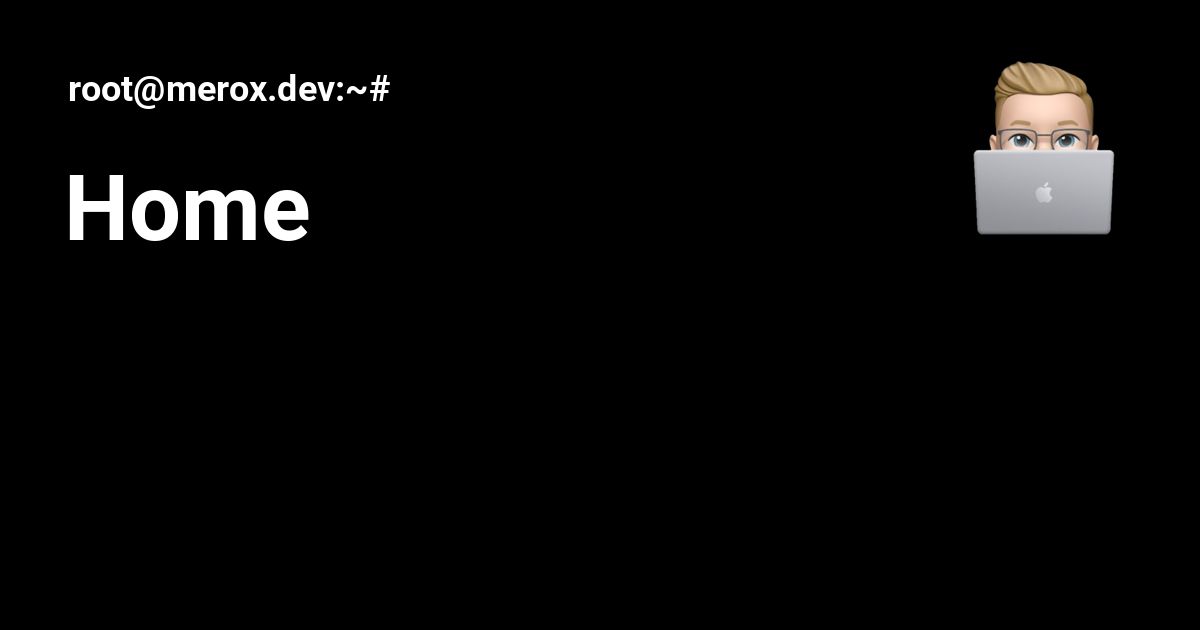
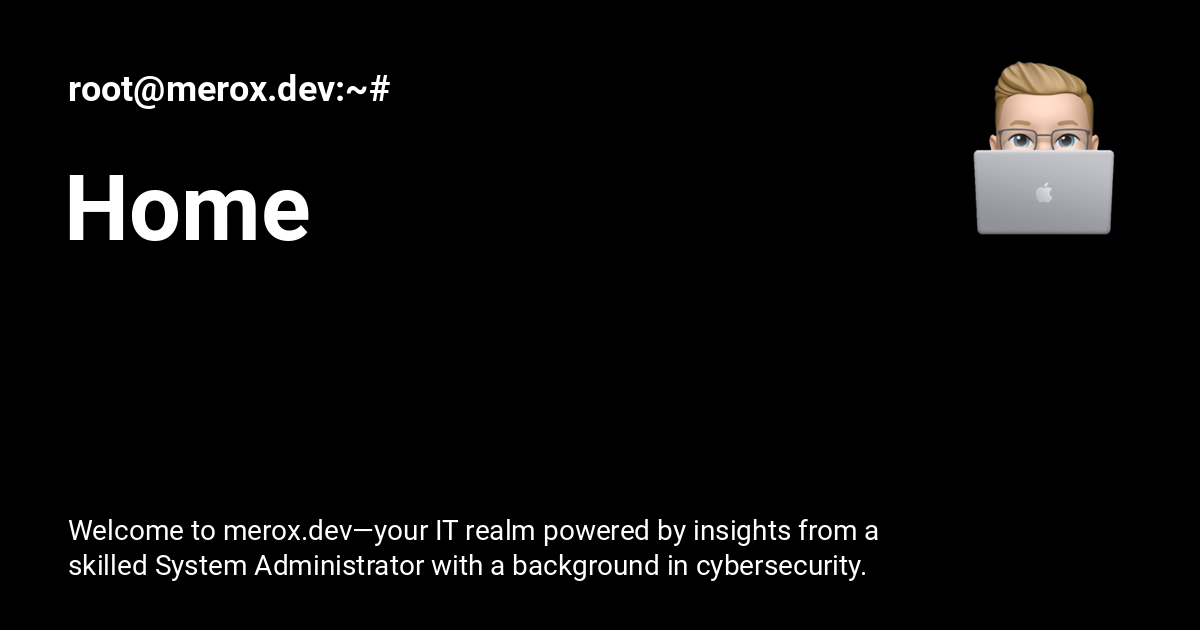
Deployed e0910190 with MkDocs version: 1.6.0

Changed region(s): [[0.0617, 0.8143, 0.74, 0.9349]]

diff --git a/index.html b/index.html
@@ -8,6 +8,8 @@
       <meta charset="utf-8">
       <meta name="viewport" content="width=device-width,initial-scale=1">
       
+        <meta name="description" content="Welcome to merox.dev—your IT realm powered by insights from a skilled System Administrator with a background in cybersecurity.">
+      
       
       
         <link rel="canonical" href="https://merox.dev/">
@@ -71,7 +73,7 @@
       
         <meta  property="og:title"  content="Home" >
       
-        <meta  property="og:description"  content="None" >
+        <meta  property="og:description"  content="Welcome to merox.dev—your IT realm powered by insights from a skilled System Administrator with a background in cybersecurity." >
       
         <meta  property="og:image"  content="https://merox.dev/assets/images/social/index.png" >
       
@@ -87,7 +89,7 @@
       
         <meta  name="twitter:title"  content="Home" >
       
-        <meta  name="twitter:description"  content="None" >
+        <meta  name="twitter:description"  content="Welcome to merox.dev—your IT realm powered by insights from a skilled System Administrator with a background in cybersecurity." >
       
         <meta  name="twitter:image"  content="https://merox.dev/assets/images/social/index.png" >
       

diff --git a/operations/virtualization/VMs/proxmox/index.html b/operations/virtualization/VMs/proxmox/index.html
@@ -4434,29 +4434,6 @@
     
     
     
-      
-  <span class="md-source-file__fact">
-    
-      
-  <span class="md-icon" title="Contributors">
-    <svg xmlns="http://www.w3.org/2000/svg" viewBox="0 0 24 24"><path d="M12 2A10 10 0 0 0 2 12c0 4.42 2.87 8.17 6.84 9.5.5.08.66-.23.66-.5v-1.69c-2.77.6-3.36-1.34-3.36-1.34-.46-1.16-1.11-1.47-1.11-1.47-.91-.62.07-.6.07-.6 1 .07 1.53 1.03 1.53 1.03.87 1.52 2.34 1.07 2.91.83.09-.65.35-1.09.63-1.34-2.22-.25-4.55-1.11-4.55-4.92 0-1.11.38-2 1.03-2.71-.1-.25-.45-1.29.1-2.64 0 0 .84-.27 2.75 1.02.79-.22 1.65-.33 2.5-.33.85 0 1.71.11 2.5.33 1.91-1.29 2.75-1.02 2.75-1.02.55 1.35.2 2.39.1 2.64.65.71 1.03 1.6 1.03 2.71 0 3.82-2.34 4.66-4.57 4.91.36.31.69.92.69 1.85V21c0 .27.16.59.67.5C19.14 20.16 22 16.42 22 12A10 10 0 0 0 12 2Z"/></svg>
-  </span>
-  <span>GitHub</span>
-
-    
-    <nav>
-      
-        <a href="https://github.com/mer0x" class="md-author" title="@mer0x">
-          
-          <img src="https://avatars.githubusercontent.com/u/35839230?v=4&size=72" alt="mer0x">
-        </a>
-      
-      
-      
-    </nav>
-  </span>
-
-    
   </aside>
 
 
